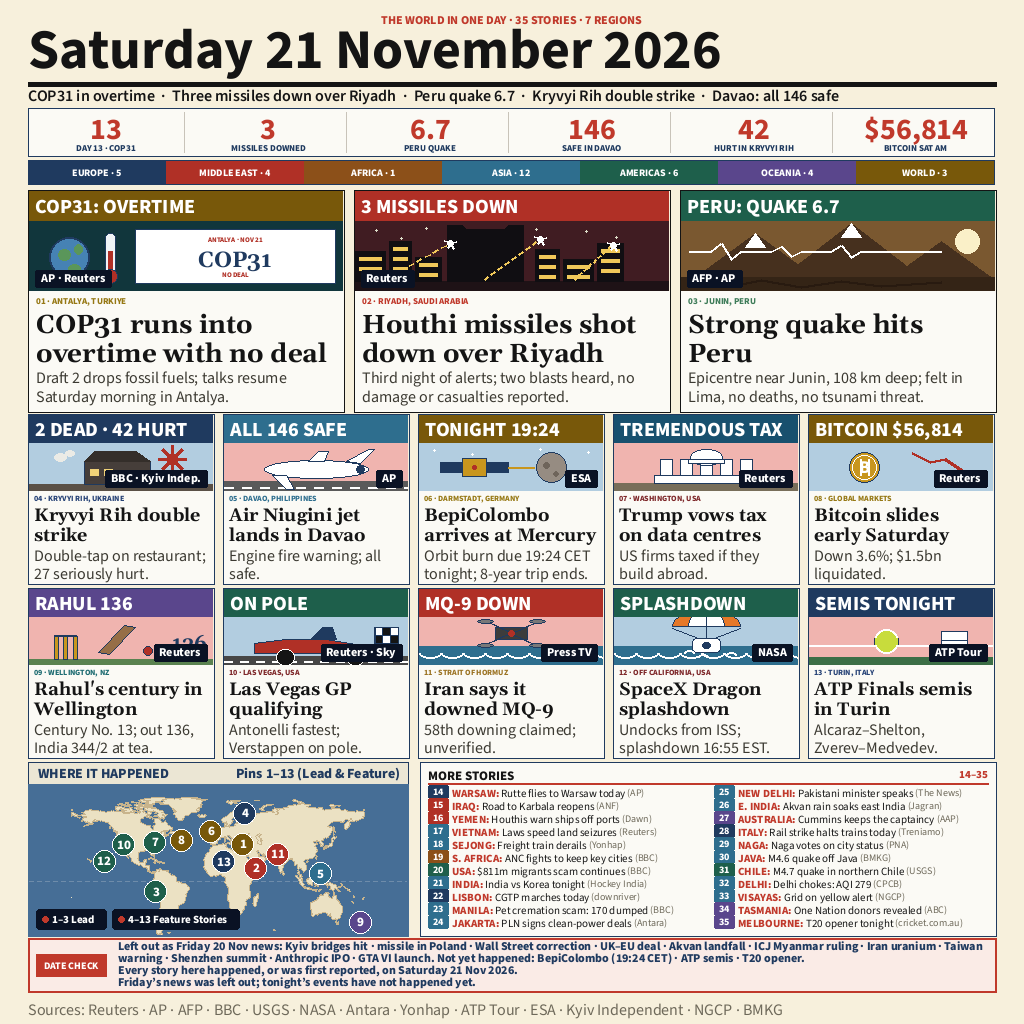
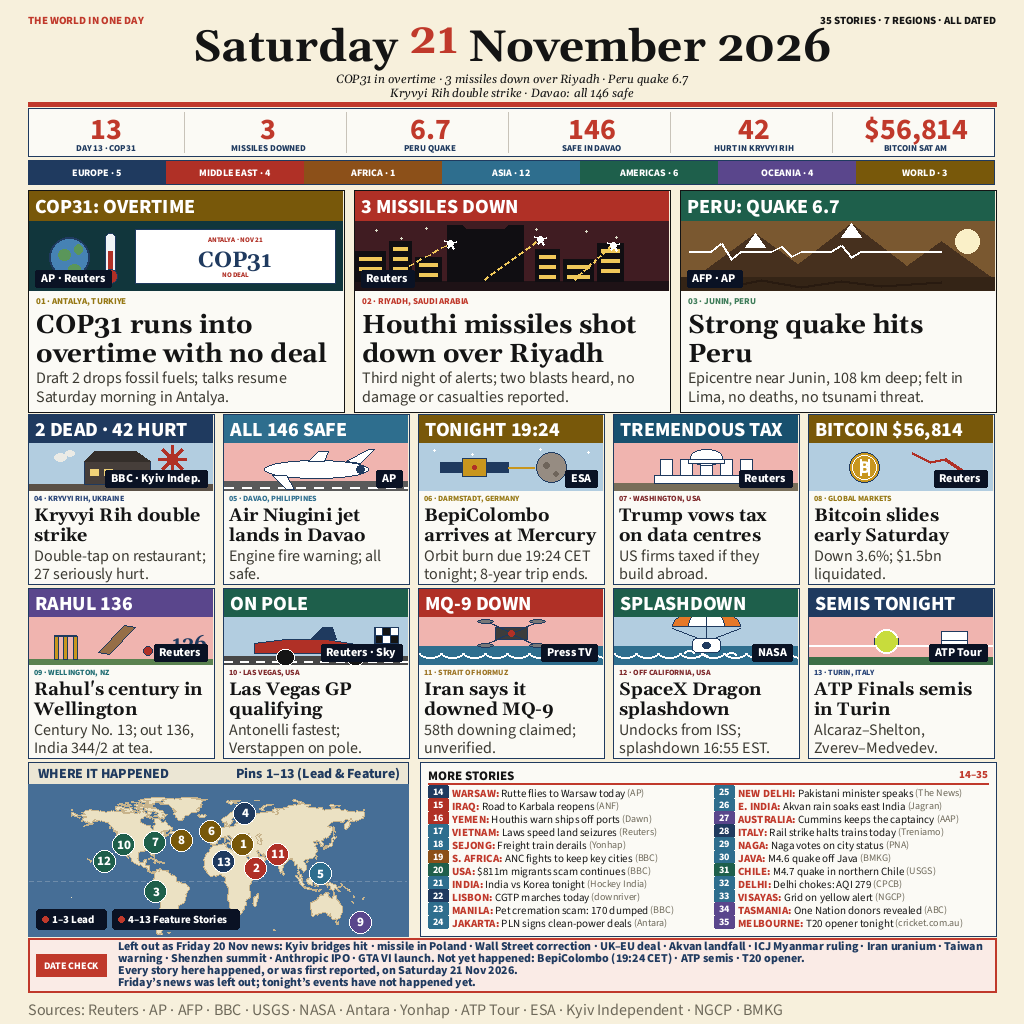
Masthead Varian G (Kevin 22 Nov 05:29, 'ikutin rank 1, tapi bedakan'): meta terbelah (kiri merah, kanan 'ALL DATED') + judul serif Gelasio-700 44pt rata tengah, angka '21' merah + subjudul italic 12pt 2 baris + garis MERAH tebal 4px; tumpukan terukur meta y16..25, judul y27..72, deck y74..86 + y88..

Changed region(s): [[0.0312, 0.0, 0.9688, 0.125], [0.8125, 0.0, 0.9688, 0.0312]]

diff --git a/render_v2.py b/render_v2.py
@@ -352,12 +352,17 @@ REGION_COLORS = {
 # (H3 vs kartu 7; kartu 7 vs kartu 12) — greedy di assign_banners.
 REGION_ALT = {"AMERICAS": "AMERICAS_ALT"}
 
-DECK = ("COP31 in overtime  \u00b7  Three missiles down over Riyadh  \u00b7  "
-        "Peru quake 6.7  \u00b7  Kryvyi Rih double strike  \u00b7  "
-        "Davao: all 146 safe")
-
-# Meta masthead Varian D (sketsa varian-d.png): 35 cerita, 7 segmen bar region.
-META = "THE WORLD IN ONE DAY \u00b7 35 STORIES \u00b7 7 REGIONS"
+# Meta masthead Varian G (Kevin 22 Nov 05:29, 'ikutin rank 1, tapi
+# bedakan'): struktur rank 1 samatch-we — meta terbelah + judul serif
+# raksasa rata tengah + subjudul italic + garis bawah. Pembeda: angka
+# "21" merah, subjudul 5 teaser 2 baris (rank 1 cuma 3), garis bawah
+# MERAH tebal 4px (rank 1 hitam tipis), meta kanan "ALL DATED" tanpa
+# pengulangan tanggal.
+META_LEFT = "THE WORLD IN ONE DAY"
+META_RIGHT = "35 STORIES \u00b7 7 REGIONS \u00b7 ALL DATED"
+DECK_LINES = ("COP31 in overtime \u00b7 3 missiles down over Riyadh "
+              "\u00b7 Peru quake 6.7",
+              "Kryvyi Rih double strike \u00b7 Davao: all 146 safe")
 
 DATECHECK_LIST = ("Left out as Friday 20 Nov news: Kyiv bridges hit \u00b7 "
                   "missile in Poland \u00b7 Wall Street correction \u00b7 UK\u2013EU "
@@ -911,43 +916,66 @@ def draw_tracked(d, cx, y, text, font, fill, tracking=-0.4):
 
 
 def draw_masthead(d):
-    """Masthead Varian D (Kevin 22 Nov 05:23, 'Koran klasik super-bersih'):
-    meta caps merah SS800 12px rata tengah + judul tanggal sans SS700
-    56px hitam satu baris RATA KIRI + garis hitam tebal 4px + teaser
-    (DECK) SS600 16px non-italic rata kiri. Zona y 16..~105, strip di
-    y 108 TIDAK digeser. Sketsa asli 64pt tidak muat di zona 92px
-    (tinta 58px + meta + garis + teaser > 88px), jadi judul 56pt
-    (sama besar dengan judul lama, tapi sans + rata kiri)."""
+    """Masthead Varian G (Kevin 22 Nov 05:29, 'ikutin rank 1, tapi
+    bedakan'): struktur rank 1 samatch-we — meta terbelah (kiri merah,
+    kanan hitam) + judul serif Gelasio-700 rata tengah + subjudul
+    italic 2 baris + garis bawah MERAH tebal 4px. Pembeda dari rank 1:
+    angka "21" merah, subjudul 5 teaser (rank 1 cuma 3), garis merah
+    tebal (rank 1 hitam tipis), meta kanan "ALL DATED" tanpa
+    pengulangan tanggal. Tumpukan terukur (anchor "lt" = y tepi atas
+    tinta): meta 11pt y16..25, judul 44pt y27..72, deck 12pt
+    y74..86 + y88..100 (pitch 14), garis y102..106; strip y108
+    TIDAK digeser (gap 2px)."""
     tt = TileText("masthead")
-    # meta
-    f_meta = F(SS800, 12)
-    mb = d.textbbox((W // 2, TITLE_Y), META, font=f_meta, anchor="mt")
-    d.text((W // 2, TITLE_Y), META, font=f_meta, fill=RED, anchor="mt")
-    tt.add(mb, "meta")
-    # judul tanggal, rata kiri (anchor "lt": y = tepi atas tinta)
-    f_title = F(SS700, 56)
-    title = "Saturday 21 November 2026"
-    ty = mb[3] + 3
-    tb = d.textbbox((28, ty), title, font=f_title, anchor="lt")
-    assert tb[2] - 28 <= W - 56, f"judul terlalu lebar: {tb[2]-28:.0f}px"
-    d.text((28, ty), title, font=f_title, fill=INK, anchor="lt")
-    tt.add(tb, "title")
-    # garis hitam tebal
-    rule_y = tb[3] + 3
-    d.rectangle([28, rule_y, 996, rule_y + 4], fill=INK)
-    # teaser satu baris, non-italic, 16pt (lantai font, anchor "lt")
-    f_deck = F(SS600, 16)
-    dw = d.textlength(DECK, font=f_deck)
-    assert dw <= W - 56, f"deck terlalu lebar: {dw:.0f}px"
-    dy = rule_y + 4 + 3
-    b = d.textbbox((28, dy), DECK, font=f_deck, anchor="lt")
-    d.text((28, dy), DECK, font=f_deck, fill=INK, anchor="lt")
-    tt.add(b, "deck")
-    assert b[3] <= STRIP_Y - 2, f"teaser menabrak strip: bawah {b[3]}"
-    reg_layout((28, TITLE_Y, 996, b[3]), "masthead")
-    return {"title_w": round(tb[2] - 28, 1), "deck_w": round(dw, 1),
-            "deck_bottom": b[3],
-            "title_pct": round(100 * (tb[2] - 28) / W, 1)}
+    # meta terbelah: kiri merah, kanan hitam (anchor "lt"/"rt")
+    f_meta = F(SS800, 11)
+    ml = d.textbbox((28, TITLE_Y), META_LEFT, font=f_meta, anchor="lt")
+    d.text((28, TITLE_Y), META_LEFT, font=f_meta, fill=RED, anchor="lt")
+    tt.add(ml, "meta-left")
+    mr = d.textbbox((996, TITLE_Y), META_RIGHT, font=f_meta, anchor="rt")
+    d.text((996, TITLE_Y), META_RIGHT, font=f_meta, fill=INK, anchor="rt")
+    tt.add(mr, "meta-right")
+    assert ml[2] < mr[0], "meta kiri-kanan bertabrakan"
+    # judul serif rata tengah, "21" merah (3 potong, anchor "lt":
+    # semua potong mulai dari cap-height yang sama)
+    f_title = F(GEL700, 44)
+    parts = [("Saturday ", INK), ("21", RED), (" November 2026", INK)]
+    total_w = sum(d.textlength(t, font=f_title) for t, _ in parts)
+    assert total_w <= W - 56, f"judul terlalu lebar: {total_w:.0f}px"
+    ty = ml[3] + 2
+    x = W // 2 - total_w / 2.0
+    tb_all = None
+    for t, fill in parts:
+        b = d.textbbox((x, ty), t, font=f_title, anchor="lt")
+        d.text((x, ty), t, font=f_title, fill=fill, anchor="lt")
+        tt.add(b, "title")
+        tb_all = (b if tb_all is None else
+                  (min(tb_all[0], b[0]), min(tb_all[1], b[1]),
+                   max(tb_all[2], b[2]), max(tb_all[3], b[3])))
+        x += d.textlength(t, font=f_title)
+    # subjudul italic 2 baris, rata tengah (anchor "lt")
+    f_deck = F(GEL_IT, 12)
+    dy = tb_all[3] + 2
+    deck_boxes = []
+    for i, line in enumerate(DECK_LINES):
+        lw = d.textlength(line, font=f_deck)
+        assert lw <= W - 56, f"deck baris {i+1} terlalu lebar: {lw:.0f}px"
+        lx = W // 2 - lw / 2.0
+        b = d.textbbox((lx, dy + i * 14), line, font=f_deck, anchor="lt")
+        d.text((lx, dy + i * 14), line, font=f_deck, fill=INK, anchor="lt")
+        tt.add(b, f"deck-{i+1}")
+        deck_boxes.append(b)
+    # garis merah tebal 4px selebar halaman
+    rule_y = deck_boxes[-1][3] + 2
+    d.rectangle([28, rule_y, 996, rule_y + 4], fill=RED)
+    assert rule_y + 4 <= STRIP_Y - 2, f"garis menabrak strip: bawah {rule_y+4}"
+    reg_layout((28, TITLE_Y, 996, rule_y + 4), "masthead")
+    return {"title_w": round(total_w, 1),
+            "deck_w": round(max(d.textlength(l, font=f_deck)
+                                for l in DECK_LINES), 1),
+            "deck_bottom": deck_boxes[-1][3],
+            "rule_bottom": rule_y + 4,
+            "title_pct": round(100 * total_w / W, 1)}
 
 
 def draw_strip(d):
